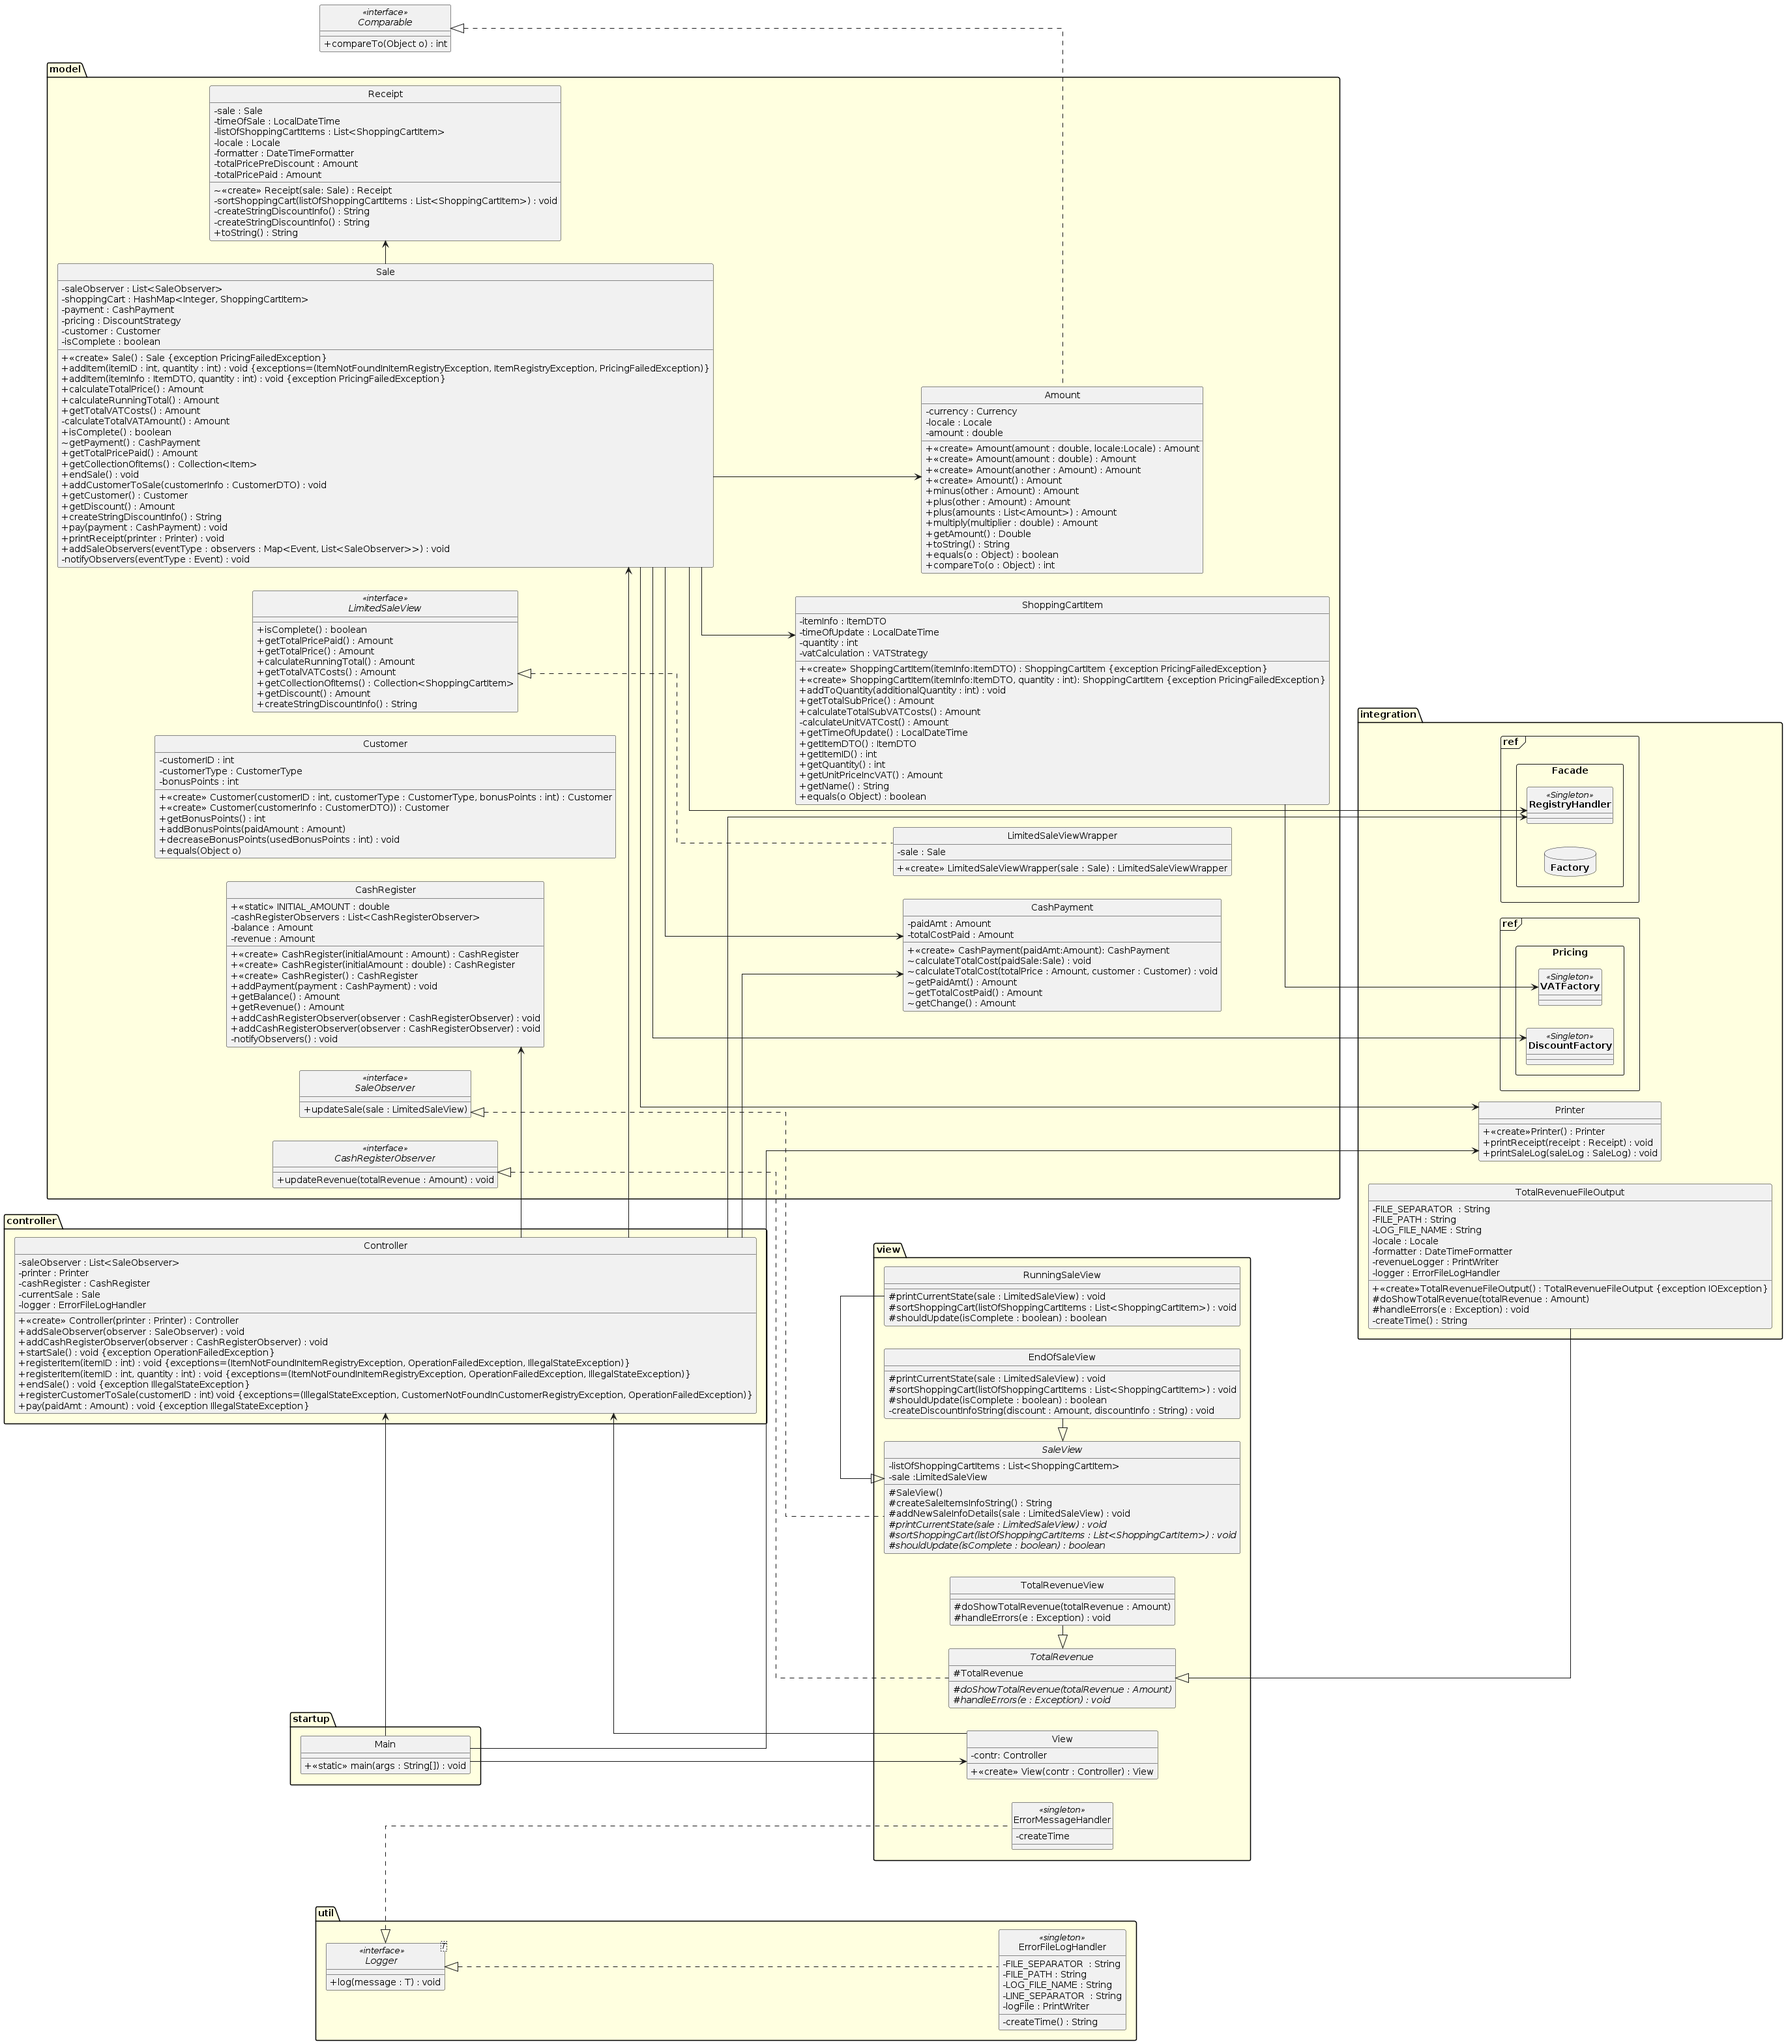
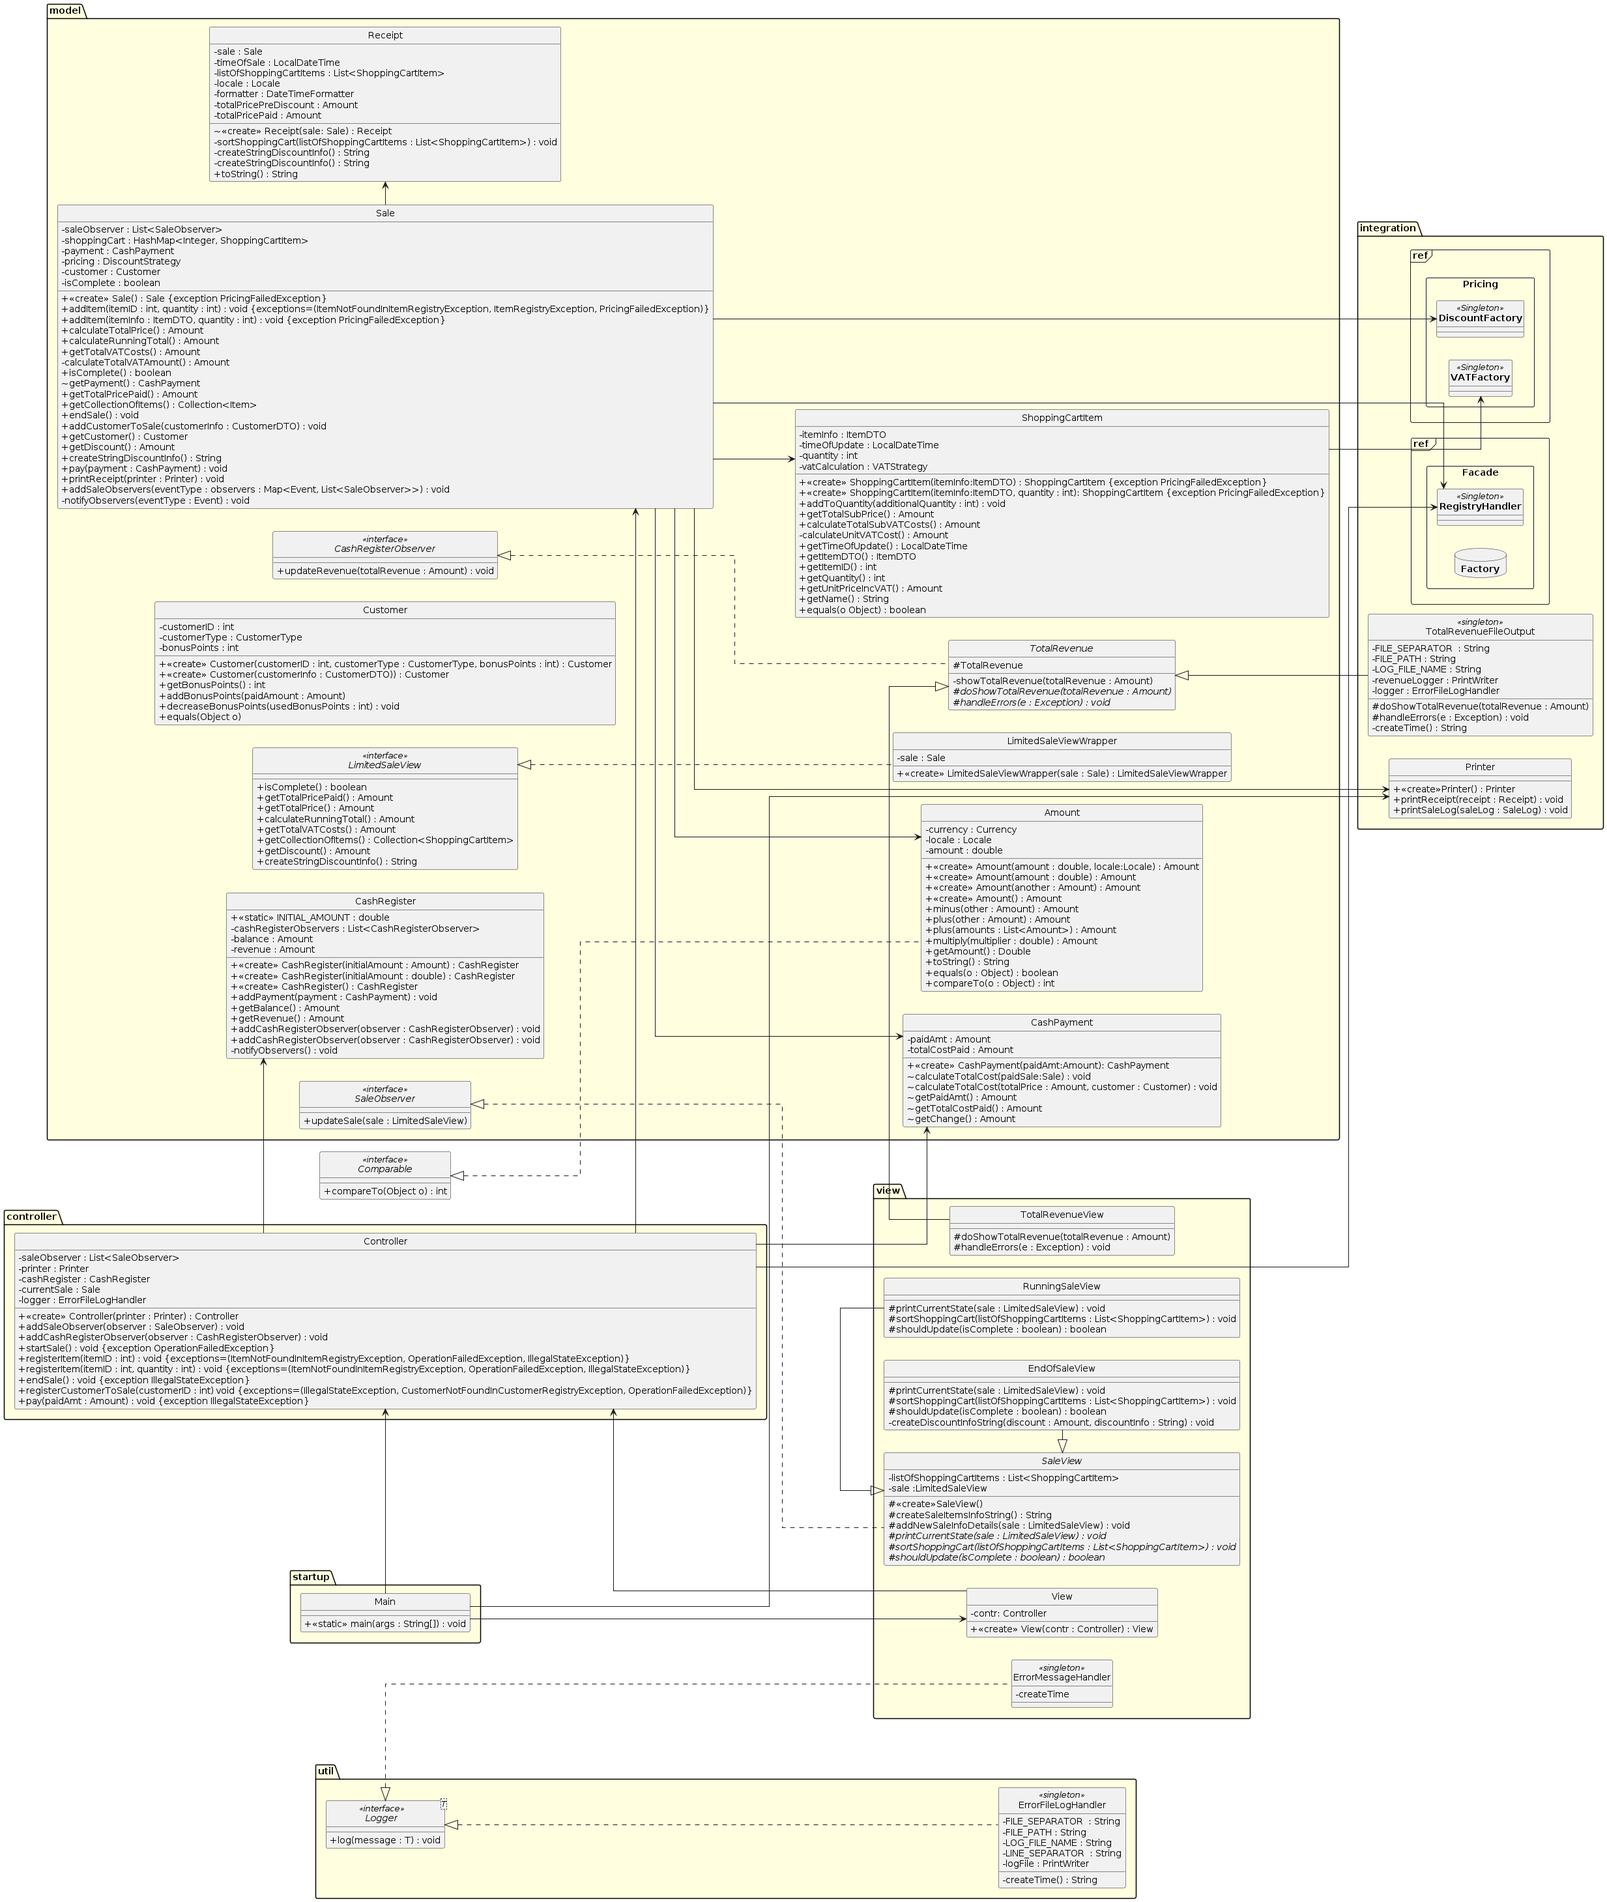
Adding first draft of adhp task1 (#45)
* Adding the first draft report on the additional higher points tasks and an UML illustrating the template method.

* Updating the Template method in the UMLs for adp and sem4.

* Adding error handling to TotalRevenueView and javadocs

* Moving unnecessary attributes.

* Adding javadocs

* Adding space between figure caption and paragraph.

* Updating the class diagram. Change in templates

* Adding the ahp-task 1 UML to README

diff --git a/tex/additional-points/ahp-tasks-iv1350-ferrigan.tex b/tex/additional-points/ahp-tasks-iv1350-ferrigan.tex
@@ -1,0 +1,252 @@
+\documentclass[a4paper]{scrreprt}
+\usepackage{fancyhdr}
+\pagestyle{fancy}
+\usepackage[english]{babel}
+\usepackage[utf8]{inputenc}
+
+\usepackage{graphicx}
+\usepackage{url}
+\usepackage{textcomp}
+\usepackage{amsmath}
+\usepackage{lastpage}
+\usepackage{pgf}
+\usepackage{wrapfig}
+\usepackage{fancyvrb}
+\usepackage{float}
+
+%\usepackage[style=ieee]{biblatex} % om du vill köra ieee (tror leif kör den)
+\usepackage[backend=biber,style=vancouver]{biblatex}
+\addbibresource{bibfile.bib}
+%Alternativt med natbib
+%\usepackage[numbers]{natbib} %referenser vancouver
+%\usepackage[numbers,round]{natbib} %referenser vancouver
+%\usepackage{hyperref}
+
+\usepackage{pdflscape}
+% \usepackage{lscape}
+
+% Code highligting
+% \usepackage{minted}
+\usepackage[outputdir=output/tex]{minted} % iom min makefile
+
+
+
+\usepackage[font=footnotesize,labelfont=bf,skip=2pt]{caption}
+\usepackage{hyperref}
+\newenvironment{longlisting}{\captionsetup{type=listing}}{}
+% \renewcommand\listoflistingscaption{Källkod....}
+\renewcommand\listoflistingscaption{List of source codes}
+\setmintedinline[java]{breaklines=true,breakanywhere=true} % necessary for breakanywhere to work later on.
+
+\usepackage{paralist} %Inline lists
+
+% Create header and footer
+\headheight 27pt
+\pagestyle{fancyplain}
+\lhead{\footnotesize{Object-Oriented Design, IV1350}}
+\chead{}
+\rhead{\footnotesize{Seminar 4 Additional Higher Grade Tasks}}
+\lfoot{}
+\cfoot{\thepage\ (\pageref{LastPage})}
+\rfoot{}
+
+% Create title page
+\title{Additional Higher Grade Tasks}
+\subtitle{Object-Oriented Design, IV1350}
+\author{Vincent Ferrigan ferrigan@kth.se}
+
+\begin{document}
+
+\maketitle
+
+\tableofcontents %Generates the TOC
+
+\chapter{Introduction}
+The purpose of this report is to
+add to the higher grade score.
+
+% TODO: Explain in short which tasks you have chosen to pursue and what you have been instructed to do.
+
+\chapter{Method}
+\section*{Tools}
+This project was implemented in \emph{Java}.
+The UML modeling tool used was \emph{PlantUML}.
+PlantUML is an open-source tool for creating UML diagrams using a text-based
+syntax.
+It was chosen to enable version control through git and to avoid using a
+proprietary graphical editor.
+This report was also written in plain text mode -- \LaTeX.
+
+All code was written in \emph{IntelliJ IDEA} and the unit tests were written with the \emph{JUnit 5} test framework.
+Quick-fixes and editing was, however, done in \emph{Vim}.
+
+\section*{The project's resources and the system's configuration and data}
+\label{sec:resources}
+Instead of hard-coding data in the integration classes,
+flat file databases are used to store records.
+These CSV-files store,
+read and update data for accounting, inventory (a product catalog included), and customer details.
+
+The filenames and their paths are all found in the project's \verb|Config.Properties|
+file under \verb|src/main/resources|.
+The class names of the objects a \emph{Factory} can create, and the filenames of all the loggers are also
+configured in the same file.
+
+The properties are added to the \verb|System Properties| -- a set-up based on
+\href{https://docs.oracle.com/javase/tutorial/essential/environment/sysprop.html}{The Java\texttrademark{} Tutorials - System Properties}
+
+If a developer is having trouble loading the resource file \verb|config.properties|,
+they will have to first check that the \verb|src/main/resources|
+is correctly configured as a resource directory in your IDE.
+
+Since the system reads and writes to files, handling exceptions became necessary.
+
+\section*{Tests}
+Tests are created using the JUnit 5 framework and follow best practice, i.e., they
+have the same directory architecture as the program, and are placed outside the source
+folder for the program (the SUT).
+
+Similar to the SUT, the tests have their own Config Properties file, error-log file and flat file databases
+(see listing ~\ref{listing:test-config.properties}) and are added to the \verb|System Properties| with
+a \mintinline{java}{@BeforeAll} method (see listing ~\ref{listing:before-all-tests-setup}).
+
+In this way, the inventory can be changed on the fly, just by manipulating
+the \verb|inventory_items.csv| file which is placed \verb|test-data/db| directory.
+The test can create, compare and manipulate its own database and log-files.
+This enables testing classes in both the integration and util layer package.
+. %TYP TODO men har du gjort så? Lägg till ErrorFileLogHandler test, TotalRevenueFileOutput test.
+
+\begin{longlisting}
+    \inputminted[
+        label=@BeforeAll tests setup,
+        linenos=true,
+        bgcolor=lightgray,
+        firstline=1,
+        lastline=25,
+%        frame=single,
+        fontsize=\footnotesize,
+    ]{bash}{../../src/test/resources/config.properties}
+    \caption{The Config Properties file for the JUnit tests.}
+    \label{listing:test-config.properties}
+\end{longlisting}
+
+\newpage
+\begin{longlisting}
+    \inputminted[
+        label=@BeforeAll tests setup,
+        linenos=true,
+        bgcolor=lightgray,
+        firstline=10,
+        lastline=34,
+%        frame=single,
+        fontsize=\footnotesize,
+    ]{java}{../../src/test/se/kth/iv1350/POSTestSuperClass.java}
+    \caption{The Config Properties are added to the System Properties in a @BeforeAll setup method.
+    This method is placed in a superclass, which is extended in all test that require a pre-configruation}
+    \label{listing:before-all-tests-setup}
+\end{longlisting}
+
+\section*{The overall Work-flow}
+\section*{Task 1, Inheritance}
+\section*{Task 2, Inheritance vs Composition}
+\section*{Task 3, Testing Output}
+
+\newpage
+\chapter{Result}
+\label{sec:result}
+The entire program, including the additional tasks can be found here on GitHub:
+
+\subsubsection*{GitHub-Repo}
+\url{https://github.com/VincentFerrigan/kth-iv1350-object-oriented-design}
+
+\section*{Task 1, Inheritance}
+Since the observers perform similar steps in the same order,
+the Template Method design-pattern can be applied.
+In this way duplicated code can be eliminated.
+
+\begin{figure}[H]
+    \begin{center}
+        \includegraphics[width=\textwidth]{../../uml/output/uml_adp_tasks}
+%        \includegraphics[trim=0cm 0cm 0cm 0cm, clip, width=\textwidth]{uml/output/uml_v3.png}
+%        \caption{The Start Up \verb|Main| system operations}
+        \caption{The template method applied with the observer pattern.
+        This UML is an extract from the main class diagram.\\}
+        \label{fig:the-observers}
+    \end{center}
+\end{figure}
+
+The abstract class
+\mintinline{java}{SaleView} is the template
+for sale observers\footnote{The observers are only exposed to certain methods or attributes.
+For example, a limited view of a particular sale is sent to the
+sale observers by using an ''observered-interface'' called
+\mintinline{java}{LimitedSaleView}.
+This interface is implemented by the wrapper class
+\mintinline{java}{LimitedSaleViewWrapper} that
+only exposes certain Sale methods.}
+\mintinline{java}{RunningSaleView} and
+\mintinline{java}{EndOfSaleView},
+while the abstract class
+\mintinline{java}{TotalRevenue}
+acts as the template for cash register observers
+\mintinline{java}{TotalRevenueView} and
+\mintinline{java}{TotalRevenueFileOutput}.
+The class diagram for the observer and template method pattern
+is illustrated in figure ~\ref{fig:the-observers}.
+
+As mentioned above, the template method
+is not only applied on the task at hand (revenue updates),
+but also for the observers that display sale details.
+The display of sale details is updated each time an item is added to the shopping cart
+and during end-of-sale performed in order to display possible discounts.
+The display of the total revenue, including revenue logging to a file, is updated
+each time a sale is paid for.
+The outcome of refactoring to both the observer-pattern and template method
+is demonstrated in all samples that are included in the README file,
+and therefore presented on the GitHub repository page.
+
+\section*{Task 2, Inheritance vs Composition}
+\section*{Task 3, Testing Output}
+
+%\begin{longlisting}
+%    \inputminted[
+%        label=The common Discount-Strategy Interface,
+%        linenos=true,
+%        bgcolor=lightgray,
+%        firstline=11,
+%        lastline=21,
+%%        frame=single,
+%        fontsize=\footnotesize,
+%    ]{java}{../../src/main/se/kth/iv1350/integration/pricing/DiscountStrategy.java}
+%    \caption{Discount strategy defining the ability to calculate total price.
+%        This interface shall be implemented by a class providing a promotion or
+%        discount algorithm.}
+%    \label{listing:discount-strategy}
+%\end{longlisting}
+
+\chapter{Discussion}
+\label{sec:discussion}
+\section*{The Template Model}
+\section*{Inheritance vs Composition}
+\section*{Testing Output}
+
+%\appendix
+%\chapter{UML -- The Refined Design}
+%\subsection*{System Operations}
+%\subsubsection*{The Start up, Main System Operation}
+%\begin{figure}[H]
+%    \begin{center}
+%        \includegraphics[width=\textwidth]{../../uml/output/uml_v3_004}
+%%        \includegraphics[trim=0cm 0cm 0cm 0cm, clip, width=\textwidth]{uml/output/uml_v3.png}
+%%        \caption{The Start Up \verb|Main| system operations}
+%        \caption{The Main System operation}
+%        \label{fig:start-up}
+%    \end{center}
+%\end{figure}
+%
+
+\listoflistings % Now typeset the list
+\printbibliography
+%med natbib
+%\bibliographystyle{unsrtnat} % referenser vancouver
+\end{document}

diff --git a/src/main/se/kth/iv1350/integration/TotalRevenueFileOutput.java b/src/main/se/kth/iv1350/integration/TotalRevenueFileOutput.java
@@ -21,8 +21,6 @@ public class TotalRevenueFileOutput extends TotalRevenue {
     private static final String FILE_SEPARATOR  = System.getProperty("file.separator");
     private final String FILE_PATH = System.getProperty("se.kth.iv1350.log.file.location");
     private static final String LOG_FILE_NAME = System.getProperty("se.kth.iv1350.log.file.revenue_log");
-    private Locale locale = new Locale("sv", "SE");
-    private DateTimeFormatter formatter = DateTimeFormatter.ofLocalizedDateTime(FormatStyle.MEDIUM).localizedBy(locale);
     private PrintWriter revenueLogger;
     private final ErrorFileLogHandler logger;
 
@@ -66,6 +64,8 @@ public class TotalRevenueFileOutput extends TotalRevenue {
     }
 
     private String createTime() {
+        Locale locale = new Locale("sv", "SE");
+        DateTimeFormatter formatter = DateTimeFormatter.ofLocalizedDateTime(FormatStyle.MEDIUM).localizedBy(locale);
         LocalDateTime now = LocalDateTime.now();
         return now.format(formatter);
     }

diff --git a/src/main/se/kth/iv1350/view/TotalRevenueView.java b/src/main/se/kth/iv1350/view/TotalRevenueView.java
@@ -3,7 +3,11 @@ package se.kth.iv1350.view;
 import se.kth.iv1350.model.Amount;
 import se.kth.iv1350.model.TotalRevenue;
 
-// TODO UML:a och skriva JavaDocs
+/**
+ * Shows the total revenue, each time it has changed.
+ * It's a dummy implementation that prints to
+ * <code>System.out</code>
+ */
 public class TotalRevenueView extends TotalRevenue {
 
     /**
@@ -18,10 +22,13 @@ public class TotalRevenueView extends TotalRevenue {
         System.out.println("--------------- End of Revenue update ---------------");
     }
 
+    /**
+     * Handles errors that are thrown.
+     * @param ex the exception thrown
+     */
     @Override
-    protected void handleErrors(Exception e) {
-
+    protected void handleErrors(Exception ex) {
+        ErrorMessageHandler.getInstance().log("Unable to show total revenue, " +
+                "please contact help desk");
     }
-
-
 }

diff --git a/src/main/se/kth/iv1350/model/TotalRevenue.java b/src/main/se/kth/iv1350/model/TotalRevenue.java
@@ -4,7 +4,7 @@ import se.kth.iv1350.model.Amount;
 import se.kth.iv1350.model.CashRegisterObserver;
 
 /**
- * A template for a cash register observer that displays the total revenue when it has changed.
+ * A template for a cash register observer that displays the total revenue, each time it changes.
  */
 public abstract class TotalRevenue implements CashRegisterObserver {
 
@@ -36,5 +36,9 @@ public abstract class TotalRevenue implements CashRegisterObserver {
      */
     protected abstract void doShowTotalRevenue(Amount totalRevenue);
 
+    /**
+     * Handles errors that are thrown.
+     * @param ex the exception thrown
+     */
     protected abstract void handleErrors (Exception e );
 }

diff --git a/README.md b/README.md
@@ -84,3 +84,8 @@ One shall be able to
 
 ### Ref - SD, Notify Cash Register Observer
 ![](https://github.com/VincentFerrigan/kth-iv1350-object-oriented-design/blob/main/output/uml/uml_sd_ref_notify_cash_register.png)
+
+## Task 1 - Inheritance, refactoring to template method  
+![](https://github.com/VincentFerrigan/kth-iv1350-object-oriented-design/blob/main/output/uml/uml_adp_tasks.png)
+Since the observers perform similar steps in the same order,
+the Template Method design-pattern can be applied. This UML-example is an extract from the main class diagram.
